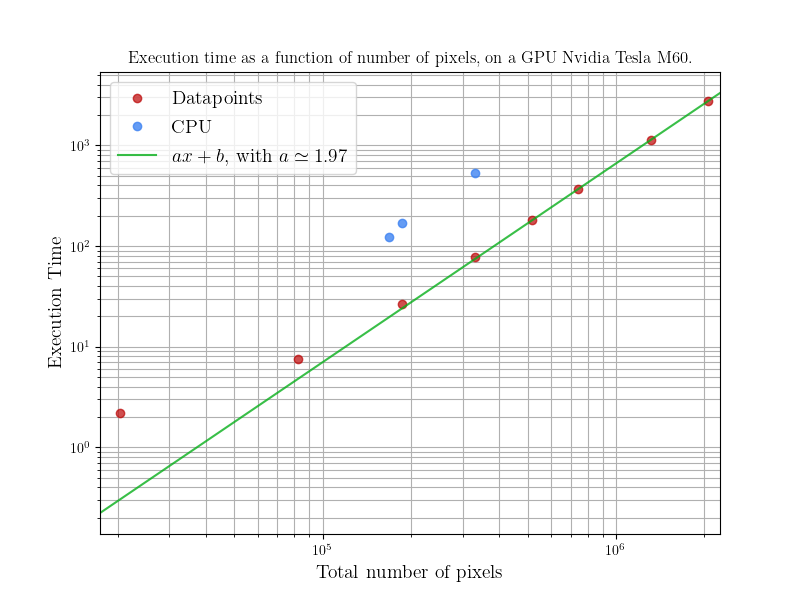
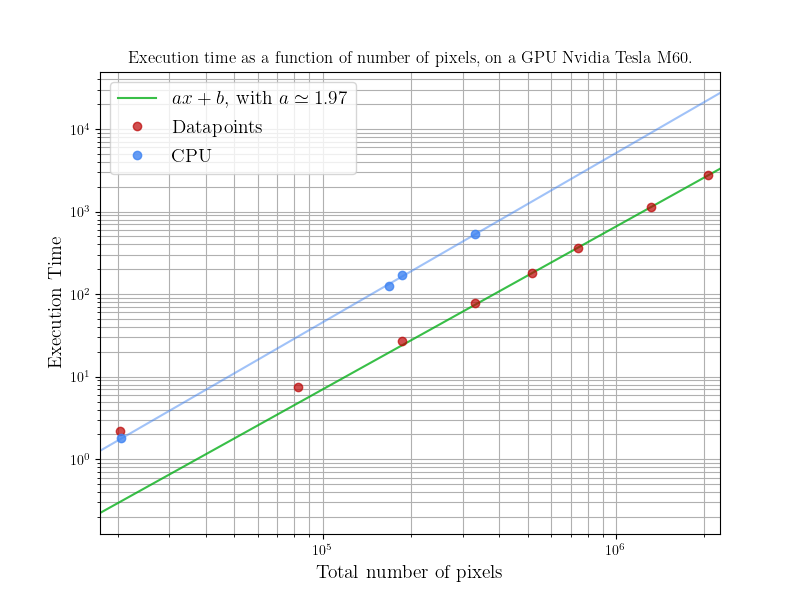
Adding GPU/CPU comparison graph

Changed region(s): [[0.0938, 0.12, 0.9062, 0.87]]

diff --git a/GPU_Computing/plotting.py b/GPU_Computing/plotting.py
@@ -51,22 +51,32 @@ plt.savefig('SpeedupVsThreads.png')
 sizeN = [20400,82560,185760,330240,516000,743040,1320960,2064000]
 etime = [2.18476,7.498288,26.764,77.167,179.900253,365.85,1134.63615,2773.71]
 
-cpuN = [168300, 185800, 330200]
-eN = [124, 170, 537]
+cpuN = [20600, 168300, 185800, 330200]
+eN = [1.8, 124, 170, 537]
 
 
 
 lsN = [np.log(itm) for itm in sizeN]
 let = [np.log(itm) for itm in etime]
 
+lsNN = [np.log(itm) for itm in cpuN]
+letN = [np.log(itm) for itm in eN]
+
 A = np.vstack([lsN[-4:], np.ones(len(lsN[-4:]))]).T
 a,b = np.linalg.lstsq(A, let[-4:], rcond=None)[0]
+AN = np.vstack([lsNN[-4:], np.ones(len(lsNN[-4:]))]).T
+aN,bN = np.linalg.lstsq(AN, letN[-4:], rcond=None)[0]
+
 xax = np.linspace(sizeN[0]-3000,sizeN[-1]+200000,200)
 yay = [np.exp(a*np.log(itm)+b) for itm in xax]
+yayN = [np.exp(aN*np.log(itm)+bN) for itm in xax]
+
 fig, ax = plt.subplots(figsize = (8,6))
+ax.loglog(xax,yay, '-', color='#07af1a',alpha=0.8, label = r"$ax+b$, with $a\simeq 1.97$")
+ax.loglog(xax,yayN, '-', color='#4386f2',alpha=0.5)
 ax.loglog(sizeN,etime, 'o', color='#bc0505',alpha=0.7, label="Datapoints")
 ax.loglog(cpuN, eN, 'o', color = '#3e83f2', alpha=0.8, label='CPU')
-ax.loglog(xax,yay, '-', color='#07af1a',alpha=0.8, label = r"$ax+b$, with $a\simeq 1.97$")
+
 plt.xlabel("Total number of pixels",fontsize=14)
 plt.ylabel("Execution Time",fontsize=14)
 plt.legend(loc='upper left', frameon=True, fancybox=True, facecolor='white', fontsize=14)
